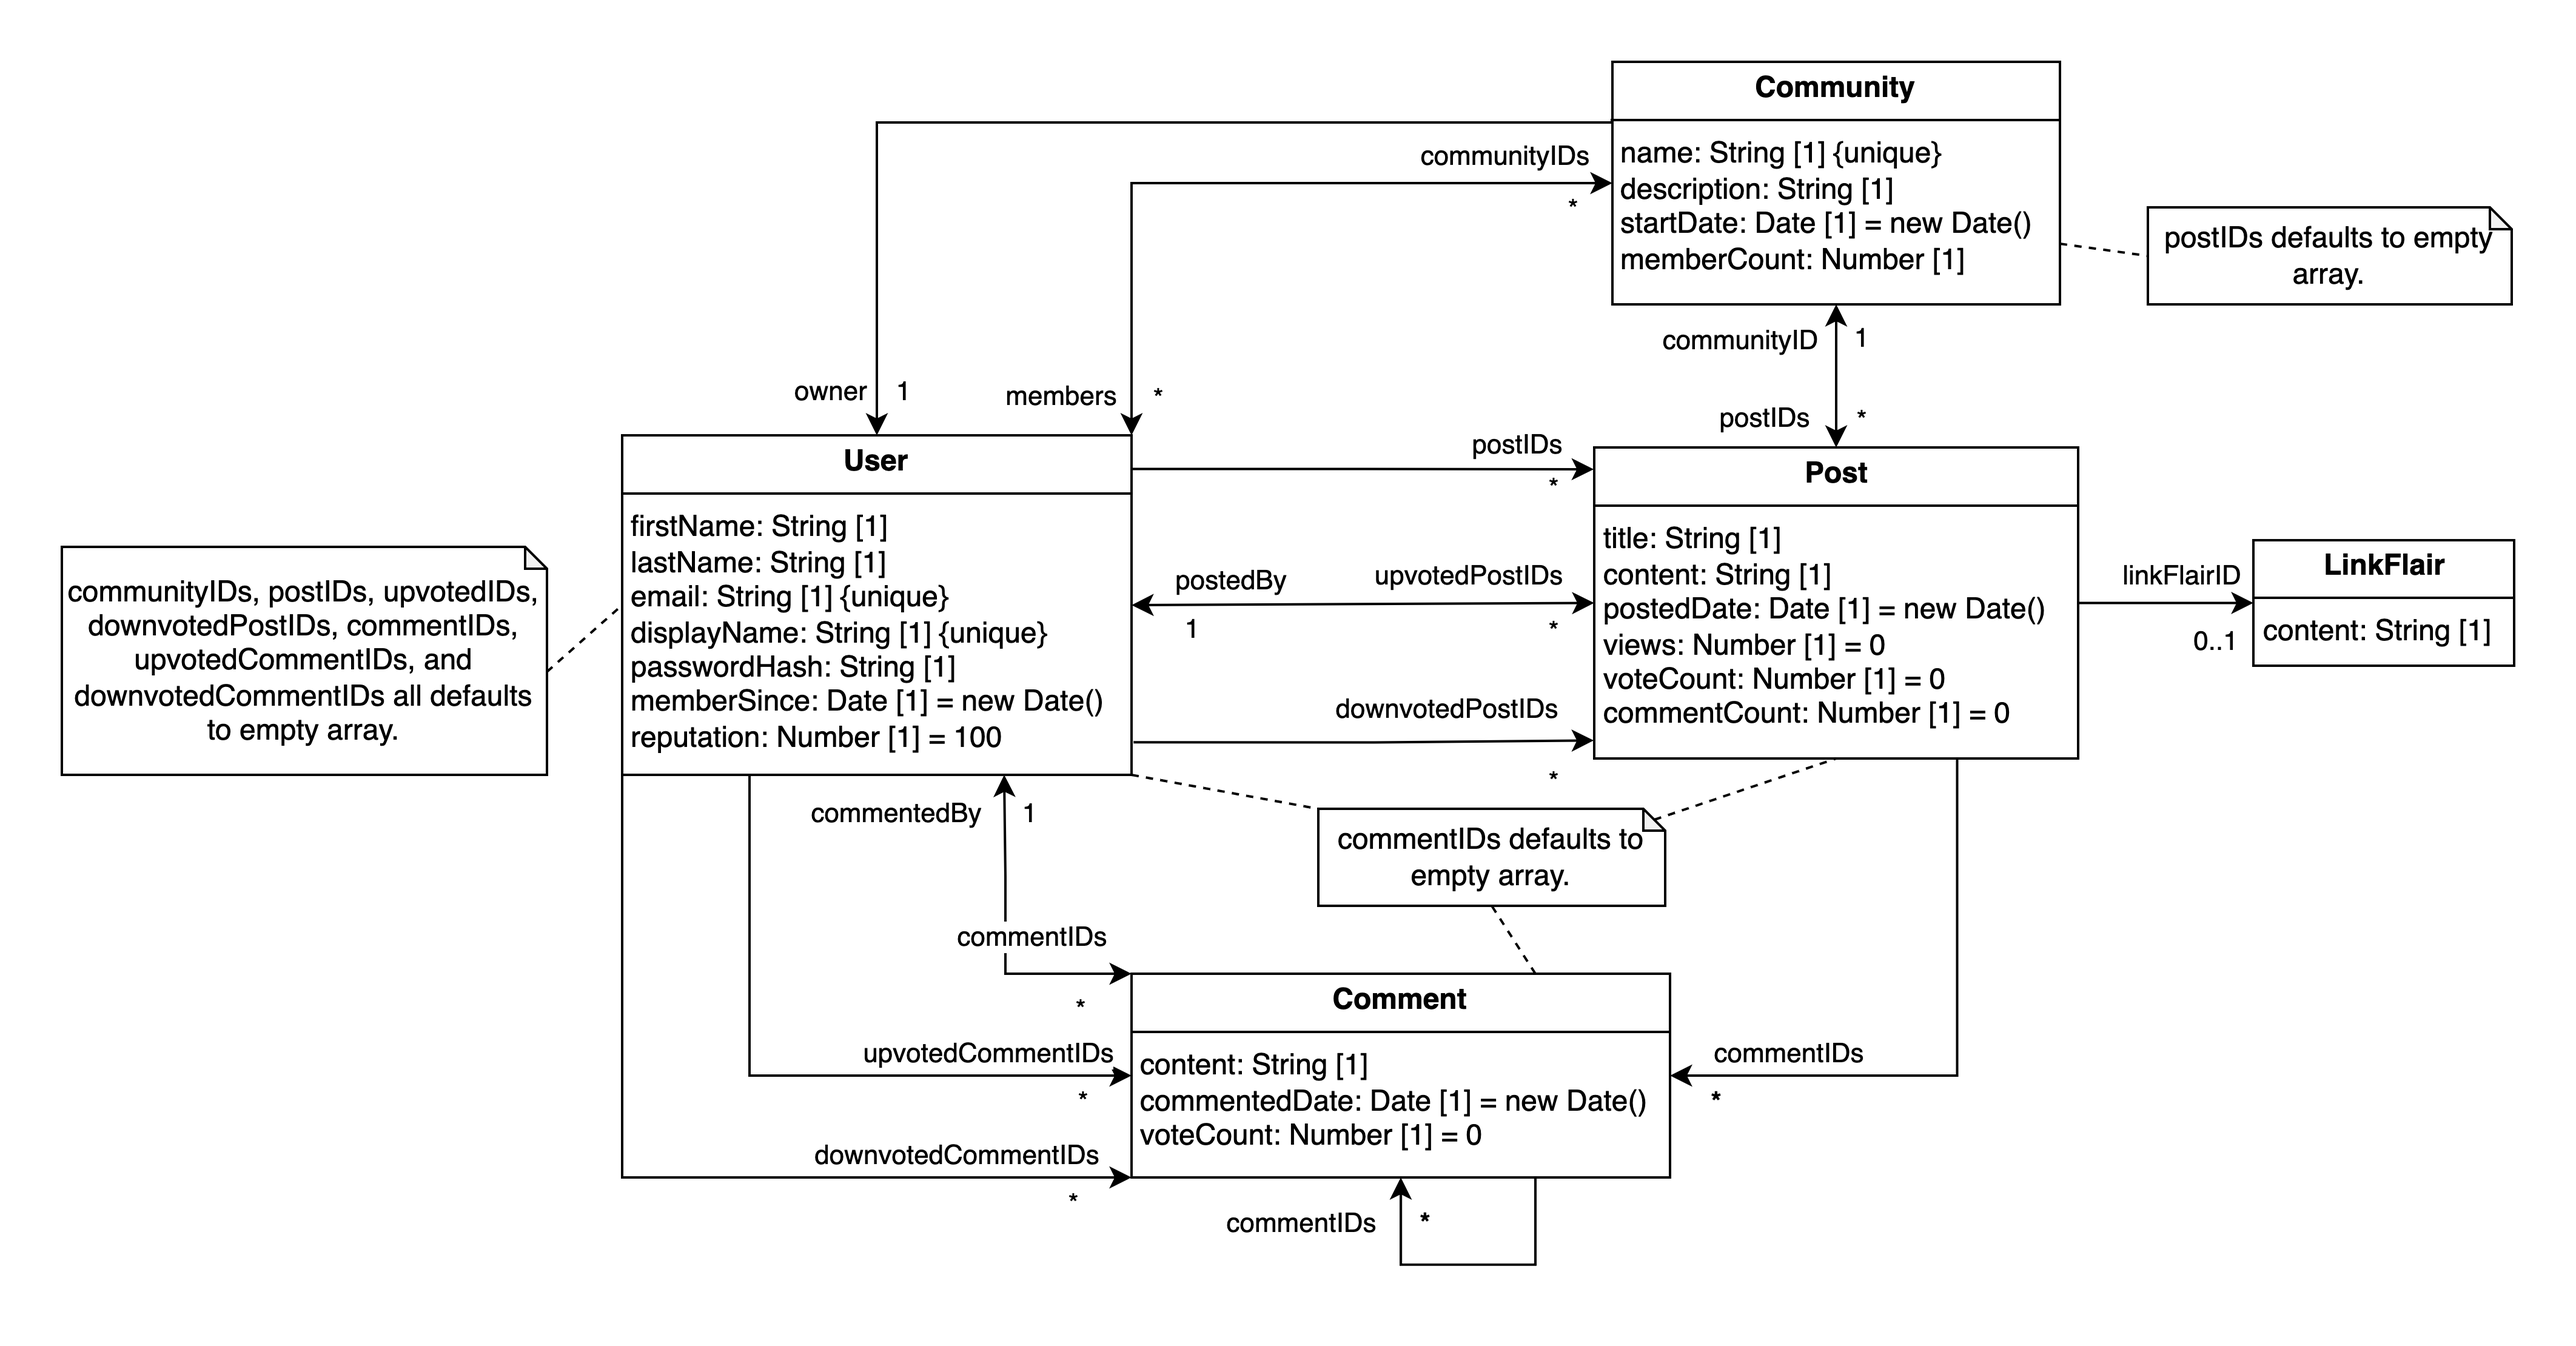
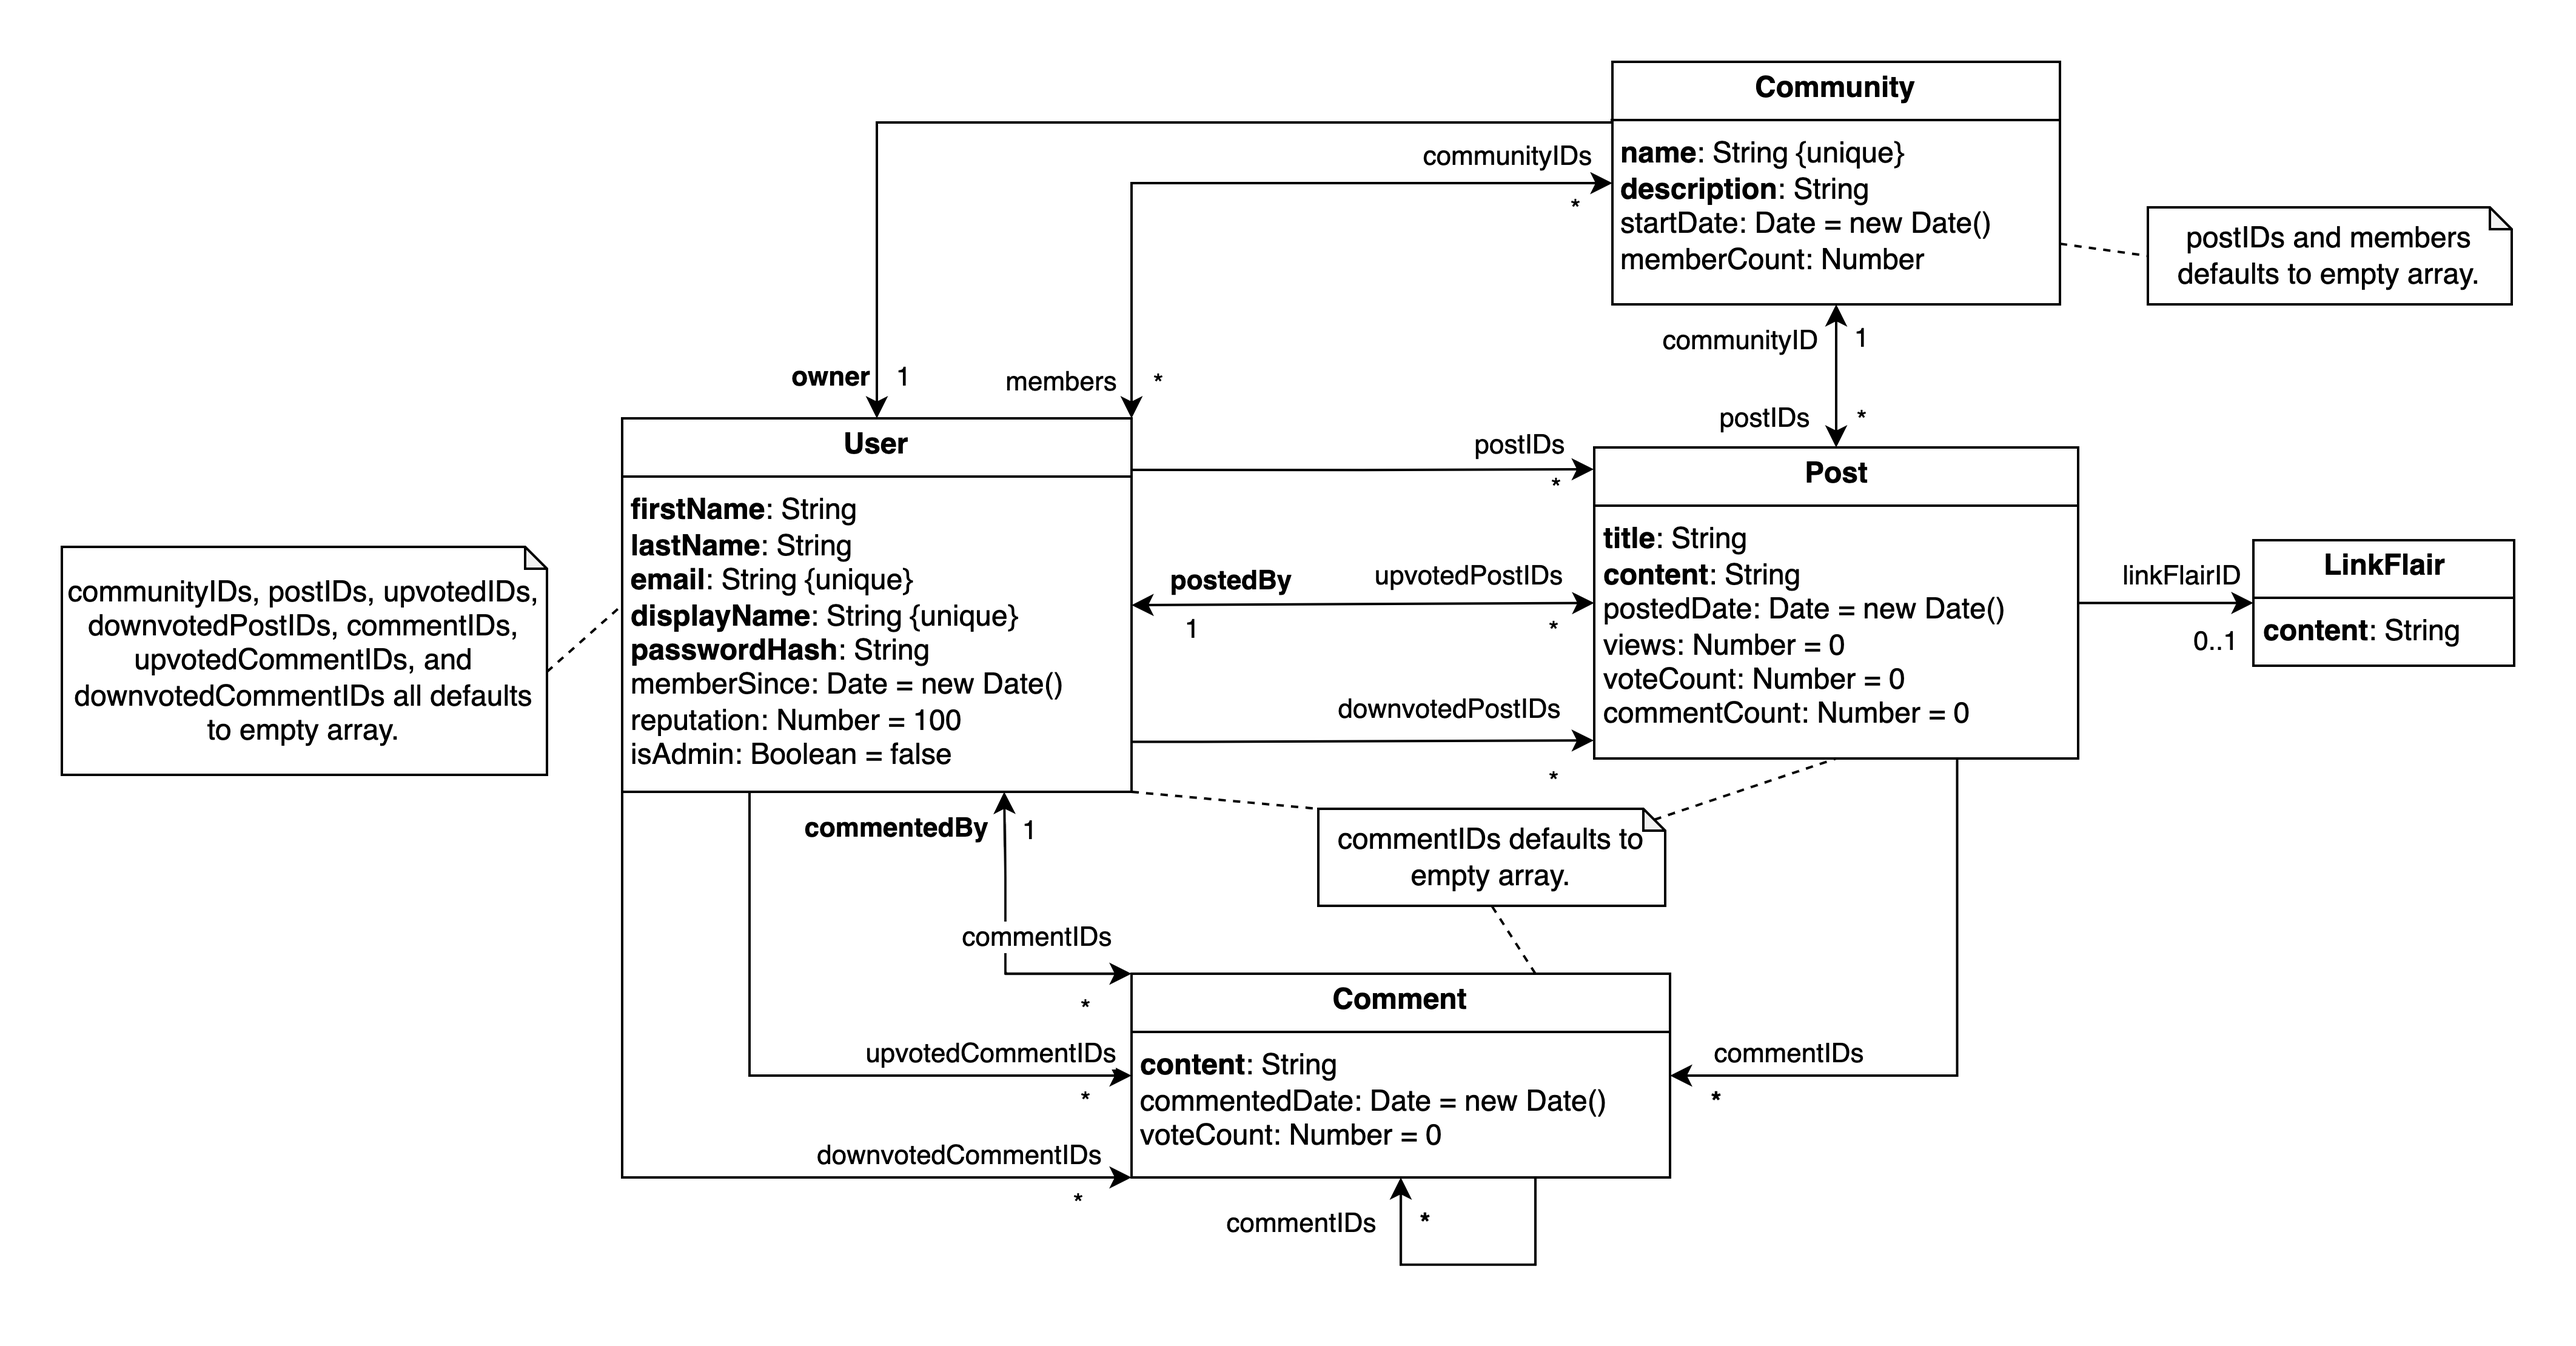
update User model along with the UML class diagram

diff --git a/server/models/users.js b/server/models/users.js
@@ -41,6 +41,10 @@ const UserSchema = new Schema({
         type: Number,
         default: 100
     },
+    isAdmin: {
+        type: Boolean,
+        default: false
+    },
     communityIDs: {
         type: [{
             type: Schema.Types.ObjectId,

diff --git a/server/models/communities.js b/server/models/communities.js
@@ -62,7 +62,7 @@ const CommunitySchema = new Schema({
             type: Schema.Types.ObjectId,
             ref: 'User'
         }],
-        required: true
+        defaults: []
     },
     owner: {
         type: Schema.Types.ObjectId,
